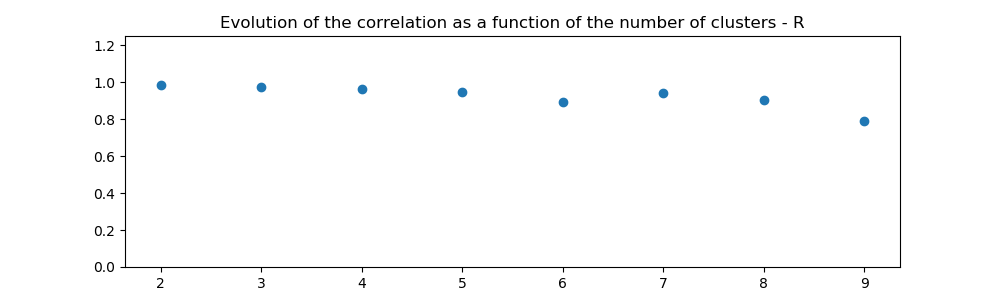
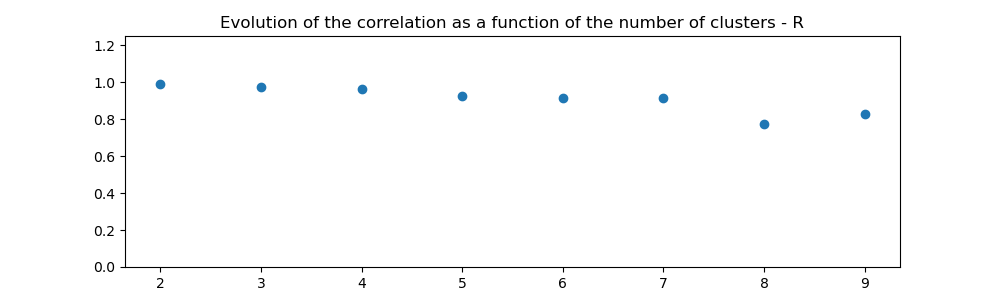
080621.1636

diff --git a/test/test_isomap_exp2b.py b/test/test_isomap_exp2b.py
@@ -1,0 +1,56 @@
+# -*- coding: utf-8 -*-
+"""
+@author: Duy Anh Philippe Pham
+@date: 03/06/21
+@version: 1.00
+@Recommandation: Python 3.7
+@revision 04/06/21
+@But : Voisins Kmedoids sur isomap
+"""
+import numpy as np
+import sys
+sys.path.insert(1,'../libs')
+
+import pandas as pd
+from  sklearn.manifold import Isomap
+import matplotlib.pylab as plt
+
+import tools, display, barycenter, process
+
+# Directory
+hemi='R'
+source='../data/'+hemi+'/'
+source2="../variables/clustering/"+hemi
+
+columns=np.load('../variables/'+hemi+'/matrix_columns.npy',allow_pickle=True)
+index=np.load('../variables/'+hemi+'/matrix_index.npy',allow_pickle=True)
+if not(all(columns==index)):#controle intégrité matrice distance
+    print('erreur')
+    
+d=np.load('../variables/'+hemi+'/matrix.npy')
+data=pd.DataFrame((d>0.01)*np.sqrt(d),index=index,columns=columns)
+
+if True:# Isomap 1 dimension, 2 voisins
+    Lv= range(2,25)
+    fig,axs=plt.subplots(len(Lv),sharex=True, sharey=True, figsize=(10,10))
+    fig.subplots_adjust(hspace = 2 )
+    fig.suptitle('Comparison for different values of neighbours')
+    for v in Lv:
+        iso=Isomap(n_neighbors=v,n_components=1,metric='precomputed')
+        X_transformed=iso.fit_transform(data)  
+        axs[v-2].yaxis.set_visible(False)
+        axs[v-2].set_title(str(v)+' neighbours', pad=5)
+        axs[v-2].scatter([i[0] for i in X_transformed],np.zeros(len(X_transformed)),marker='*')
+    
+    tools.save_fig(v,source2+'/isomap/dim1/') 
+if True:# Isomap 2 dimension    
+    Lv= range(0,25)
+    fig,axs=plt.subplots(int(np.sqrt(len(Lv))),int(np.sqrt(len(Lv))),sharex=True, figsize=(10,10))
+    fig.suptitle('Comparison for different values of neighbours')
+    for v in Lv:
+        iso=Isomap(n_neighbors=v+2,n_components=2,metric='precomputed')
+        X_transformed=iso.fit_transform(data) 
+          
+        axs[int(np.floor(v/5)),int(v%5)].set_title(str(v+2)+' neighbours')
+        axs[int(np.floor(v/5)),int(v%5)].scatter([i[0] for i in X_transformed],[i[1] for i in X_transformed],marker='*')          
+    tools.save_fig(v,source2+'/isomap/dim2/')

diff --git a/test/test_isomap_exp1.py b/test/test_isomap_exp1.py
@@ -18,7 +18,7 @@ import matplotlib.pylab as plt
 import tools, display, barycenter, process
 
 # Directory
-hemi='L'
+hemi='R'
 source='../data/'+hemi+'/'
 source2="../variables/clustering/"+hemi
 
@@ -33,8 +33,8 @@ data=pd.DataFrame((d>0.01)*np.sqrt(d),index=index,columns=columns)
 clus=2
 cluster=np.load(source2+'/labels.npy')[clus-2]#labels des différents clusters
 
-if False:# Isomap 1 dimension, 4 voisins
-    iso=Isomap(n_neighbors=15,n_components=1,metric='precomputed')
+if True:# Isomap 1 dimension, 4 voisins
+    iso=Isomap(n_neighbors=20,n_components=1,metric='precomputed')
     X_transformed=iso.fit_transform(data) 
     
     plt.figure(figsize=(10,3))
@@ -43,11 +43,11 @@ if False:# Isomap 1 dimension, 4 voisins
     j=0
     for i in np.argsort(X_transformed,0):
         j=j+1
-        plt.text(X_transformed[i]-0.2,(np.mod(j,10)-5)/10,int(i),fontsize=10)
+        #plt.text(X_transformed[i]-0.2,(np.mod(j,10)-5)/10,int(i),fontsize=10)
     plt.show()
     
 if False:# Isomap 2 dimension, 3 voisins
-    iso=Isomap(n_neighbors=15,n_components=2,metric='precomputed')
+    iso=Isomap(n_neighbors=20,n_components=2,metric='precomputed')
     X_transformed=iso.fit_transform(data)
     
     plt.figure(figsize=(10,10))
@@ -65,6 +65,7 @@ def animate(frame):
   return frame
 
 if True:# Isomap 3 dimension, 2 voisins
+    from mpl_toolkits.mplot3d import Axes3D
     iso=Isomap(n_neighbors=3,n_components=3,metric='precomputed')
     X_transformed=iso.fit_transform(data)
     

diff --git a/test/test_isomap_exp2a.py b/test/test_isomap_exp2a.py
@@ -18,7 +18,7 @@ import matplotlib.pylab as plt
 import tools, display, barycenter, process
 
 # Directory
-hemi='L'
+hemi='R'
 source='../data/'+hemi+'/'
 source2="../variables/clustering/"+hemi
 
@@ -33,7 +33,7 @@ data=pd.DataFrame((d>0.01)*np.sqrt(d),index=index,columns=columns)
 clus=2
 if True:# Isomap 1 dimension, 2 voisins
     for cluster in np.load(source2+'/labels.npy'):
-        iso=Isomap(n_neighbors=15,n_components=1,metric='precomputed')
+        iso=Isomap(n_neighbors=20,n_components=1,metric='precomputed')
         X_transformed=iso.fit_transform(data) 
         
         plt.figure(figsize=(10,3))
@@ -48,7 +48,7 @@ if True:# Isomap 1 dimension, 2 voisins
 clus=2    
 if True:# Isomap 2 dimension    
     for cluster in np.load(source2+'/labels.npy'):
-        iso=Isomap(n_neighbors=15,n_components=2,metric='precomputed')
+        iso=Isomap(n_neighbors=20,n_components=2,metric='precomputed')
         X_transformed=iso.fit_transform(data) 
         
         plt.figure(figsize=(10,10))

diff --git a/test/test_isomap_exp3.py b/test/test_isomap_exp3.py
@@ -30,15 +30,19 @@ if not(all(columns==index)):#controle intégrité matrice distance
 d=np.load('../variables/'+hemi+'/matrix.npy')
 data=pd.DataFrame((d>0.01)*np.sqrt(d),index=index,columns=columns)
 
-clus=3
+clus=9
 cluster= np.load(source2+'/labels.npy')[clus-2]
 temp3=[]
 # corrélation par cluster
 if True:# 
-    voisins=range(2,25)
-    n_components=3
+    if False:
+        voisins=range(2,25)
+        n_components=3
+    else:
+        k=20
+        dim=range(2,20)
     view=[]
-    for k in voisins:# on change le nombre de voisin
+    for n_components in dim:# on change le nombre de voisin
         temp=[]
         a=None
         for axis in range(n_components):# balayage sur l'ensemble des axes

diff --git a/test/test_isomap_exp4.py b/test/test_isomap_exp4.py
@@ -36,8 +36,8 @@ if True:#
         cluster= np.load(source2+'/labels.npy')[clus-2]
         
         # corrélation par cluster
-        voisins=2
-        n_components=2
+        voisins=20
+        n_components=3
         view=[]
         temp=[]
         a=None
